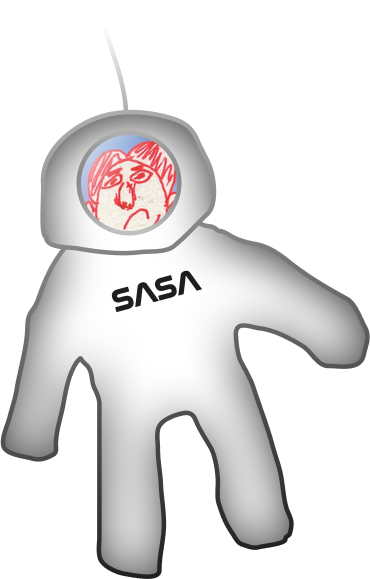
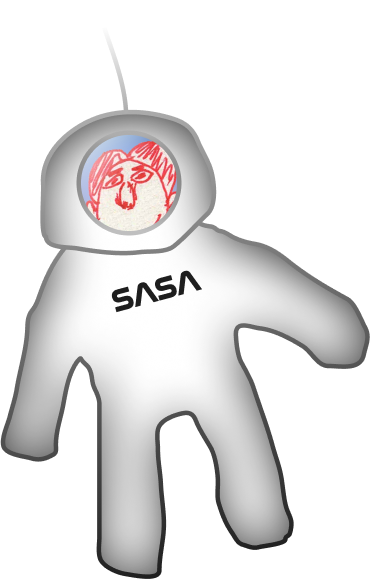
.

Changed region(s): [[0.2378, 0.2487, 0.4757, 0.4041]]

diff --git a/src/pages/NotFound.tsx b/src/pages/NotFound.tsx
@@ -24,6 +24,9 @@ import {
   Assets,
   Application,
   ICanvas,
+  AnimatedSprite,
+  Spritesheet,
+  BaseTexture,
 } from "pixi.js";
 import { Stage, useApp } from "@pixi/react";
 import { CRTFilter, CRTFilterOptions } from "pixi-filters";
@@ -38,6 +41,7 @@ import planetaryNebula from "../assets/planetary-nebula.jpg";
 import swanNebula from "../assets/swan-nebula.jpg";
 import blackHole from "../assets/black-hole.jpg";
 import sasa from "../assets/sasa.png";
+import sasaMouthSprites from "../assets/sasa-mouth-sprites.png";
 import sasaLogo from "../assets/sasa-logo.png";
 import houston from "../assets/houston.ogg";
 
@@ -178,6 +182,7 @@ type PixiSceneProps = {
   velocity: Velocity;
   battery: number;
   showStats: boolean;
+  speaking: boolean;
 };
 
 class DisplayPad {
@@ -300,11 +305,105 @@ function batteryText(battery: number) {
     : "◼".repeat(cells) + "◻".repeat(emptyCells);
 }
 
+const atlasData = {
+  frames: {
+    silent: {
+      frame: { x: 50, y: 30, w: 25, h: 15 },
+      sourceSize: { w: 25, h: 15 },
+      spriteSourceSize: { x: 0, y: 0, w: 25, h: 15 },
+    },
+    a: {
+      frame: { x: 0, y: 0, w: 25, h: 15 },
+      sourceSize: { w: 25, h: 15 },
+      spriteSourceSize: { x: 0, y: 0, w: 25, h: 15 },
+    },
+    o: {
+      frame: { x: 25, y: 0, w: 25, h: 15 },
+      sourceSize: { w: 25, h: 15 },
+      spriteSourceSize: { x: 0, y: 0, w: 25, h: 15 },
+    },
+    s: {
+      frame: { x: 50, y: 0, w: 25, h: 15 },
+      sourceSize: { w: 25, h: 15 },
+      spriteSourceSize: { x: 0, y: 0, w: 25, h: 15 },
+    },
+    e: {
+      frame: { x: 0, y: 15, w: 25, h: 15 },
+      sourceSize: { w: 25, h: 15 },
+      spriteSourceSize: { x: 0, y: 0, w: 25, h: 15 },
+    },
+    f: {
+      frame: { x: 25, y: 15, w: 25, h: 15 },
+      sourceSize: { w: 25, h: 15 },
+      spriteSourceSize: { x: 0, y: 0, w: 25, h: 15 },
+    },
+    m: {
+      frame: { x: 50, y: 15, w: 25, h: 15 },
+      sourceSize: { w: 25, h: 15 },
+      spriteSourceSize: { x: 0, y: 0, w: 25, h: 15 },
+    },
+    t: {
+      frame: { x: 0, y: 30, w: 25, h: 15 },
+      sourceSize: { w: 25, h: 15 },
+      spriteSourceSize: { x: 0, y: 0, w: 25, h: 15 },
+    },
+    p: {
+      frame: { x: 25, y: 30, w: 25, h: 15 },
+      sourceSize: { w: 25, h: 15 },
+      spriteSourceSize: { x: 0, y: 0, w: 25, h: 15 },
+    },
+  },
+  meta: {
+    image: sasaMouthSprites,
+    format: "RGBA8888",
+    size: { w: 74, h: 45 },
+    scale: "1",
+  },
+  animations: {
+    mouth: ["silent"], //array of frames by name
+    ao: ["a", "o", "s", "e", "f", "m", "t", "p"],
+    houstonIHaveAProblem: [
+      "silent",
+      "f",
+      "e",
+      "o",
+      "s",
+      "t",
+      "o",
+      "m",
+      "m",
+      "m",
+      "a",
+      "e",
+      "e",
+      "f",
+      "a",
+      "a",
+      "f",
+      "a",
+      "a",
+      "p",
+      "a",
+      "o",
+      "o",
+      "p",
+      "t",
+      "e",
+      "e",
+      "m",
+      "m",
+      "silent",
+      "silent",
+    ],
+  },
+};
+
 function PixiScene({
   transmitting,
   velocity,
   battery,
   showStats,
+  speaking,
 }: PixiSceneProps) {
   const app = useApp();
 
@@ -316,6 +415,7 @@ function PixiScene({
   const sasaVelocity = useRef<Velocity>(initialVelocity);
   const [background, setBackground] = useState<Background>();
   const backgroundSprite = useRef<Sprite>();
+  const sasaMouth = useRef<AnimatedSprite>();
   const statsPad = useRef<DisplayPad>();
   const { soundOn, setOptions } = useNoise();
   const interference = useInterference();
@@ -327,7 +427,7 @@ function PixiScene({
       const currentBackground = randomBackground();
       const backgroundAsset = await Assets.load(currentBackground.resource);
 
-      await new Promise((resolve) => setTimeout(resolve, 3000));
+      // await new Promise((resolve) => setTimeout(resolve, 3000));
       cleanupStandbyScreen();
 
       backgroundSprite.current = Sprite.from(backgroundAsset);
@@ -342,6 +442,26 @@ function PixiScene({
       const sprite = new Sprite(Texture.from(sasa));
       sprite.anchor.set(0.5);
       container.addChild(sprite);
+
+      const spritesheet = new Spritesheet(
+        BaseTexture.from(atlasData.meta.image),
+        atlasData
+      );
+
+      await spritesheet.parse();
+
+      const anim = new AnimatedSprite(
+        spritesheet.animations.houstonIHaveAProblem
+      );
+
+      anim.scale.set(1.5);
+      anim.position.set(-70, -72);
+      anim.rotation = -30 * (Math.PI / 180);
+
+      anim.animationSpeed = 0.4;
+      anim.loop = false;
+
+      container.addChild((sasaMouth.current = anim));
 
       container.addChild((sasaGraphics.current = new Graphics()));
 
@@ -453,6 +573,20 @@ function PixiScene({
   }, [app, transmitting]);
 
   useEffect(() => {
+    const sasa = sasaMouth?.current;
+
+    if (sasa === undefined) {
+      return;
+    }
+
+    if (speaking) {
+      sasa.play();
+    } else {
+      sasa.gotoAndStop(0);
+    }
+  }, [app, speaking]);
+
+  useEffect(() => {
     const sasa = sasaContainer?.current;
 
     if (sasa === undefined) {
@@ -538,6 +672,7 @@ export const NotFound = () => {
   const { soundOn, setSoundOn } = useNoise();
   const [mode, setMode] = useState<DisplayMode>("message");
   const [callForHelp] = useSound(houston);
+  const [speaking, setSpeaking] = useState<boolean>(false);
   const {
     transmitting,
     setTransmitting,
@@ -589,6 +724,10 @@ export const NotFound = () => {
   function sendSOS() {
     transmit(() => {
       if (soundOn) {
+        setSpeaking(true);
+        setTimeout(() => {
+          setSpeaking(false);
+        }, 1000);
         callForHelp();
       }
     });
@@ -741,6 +880,7 @@ export const NotFound = () => {
           velocity={velocity}
           battery={battery}
           showStats={mode === "stats"}
+          speaking={speaking}
         />
       </Stage>
 
